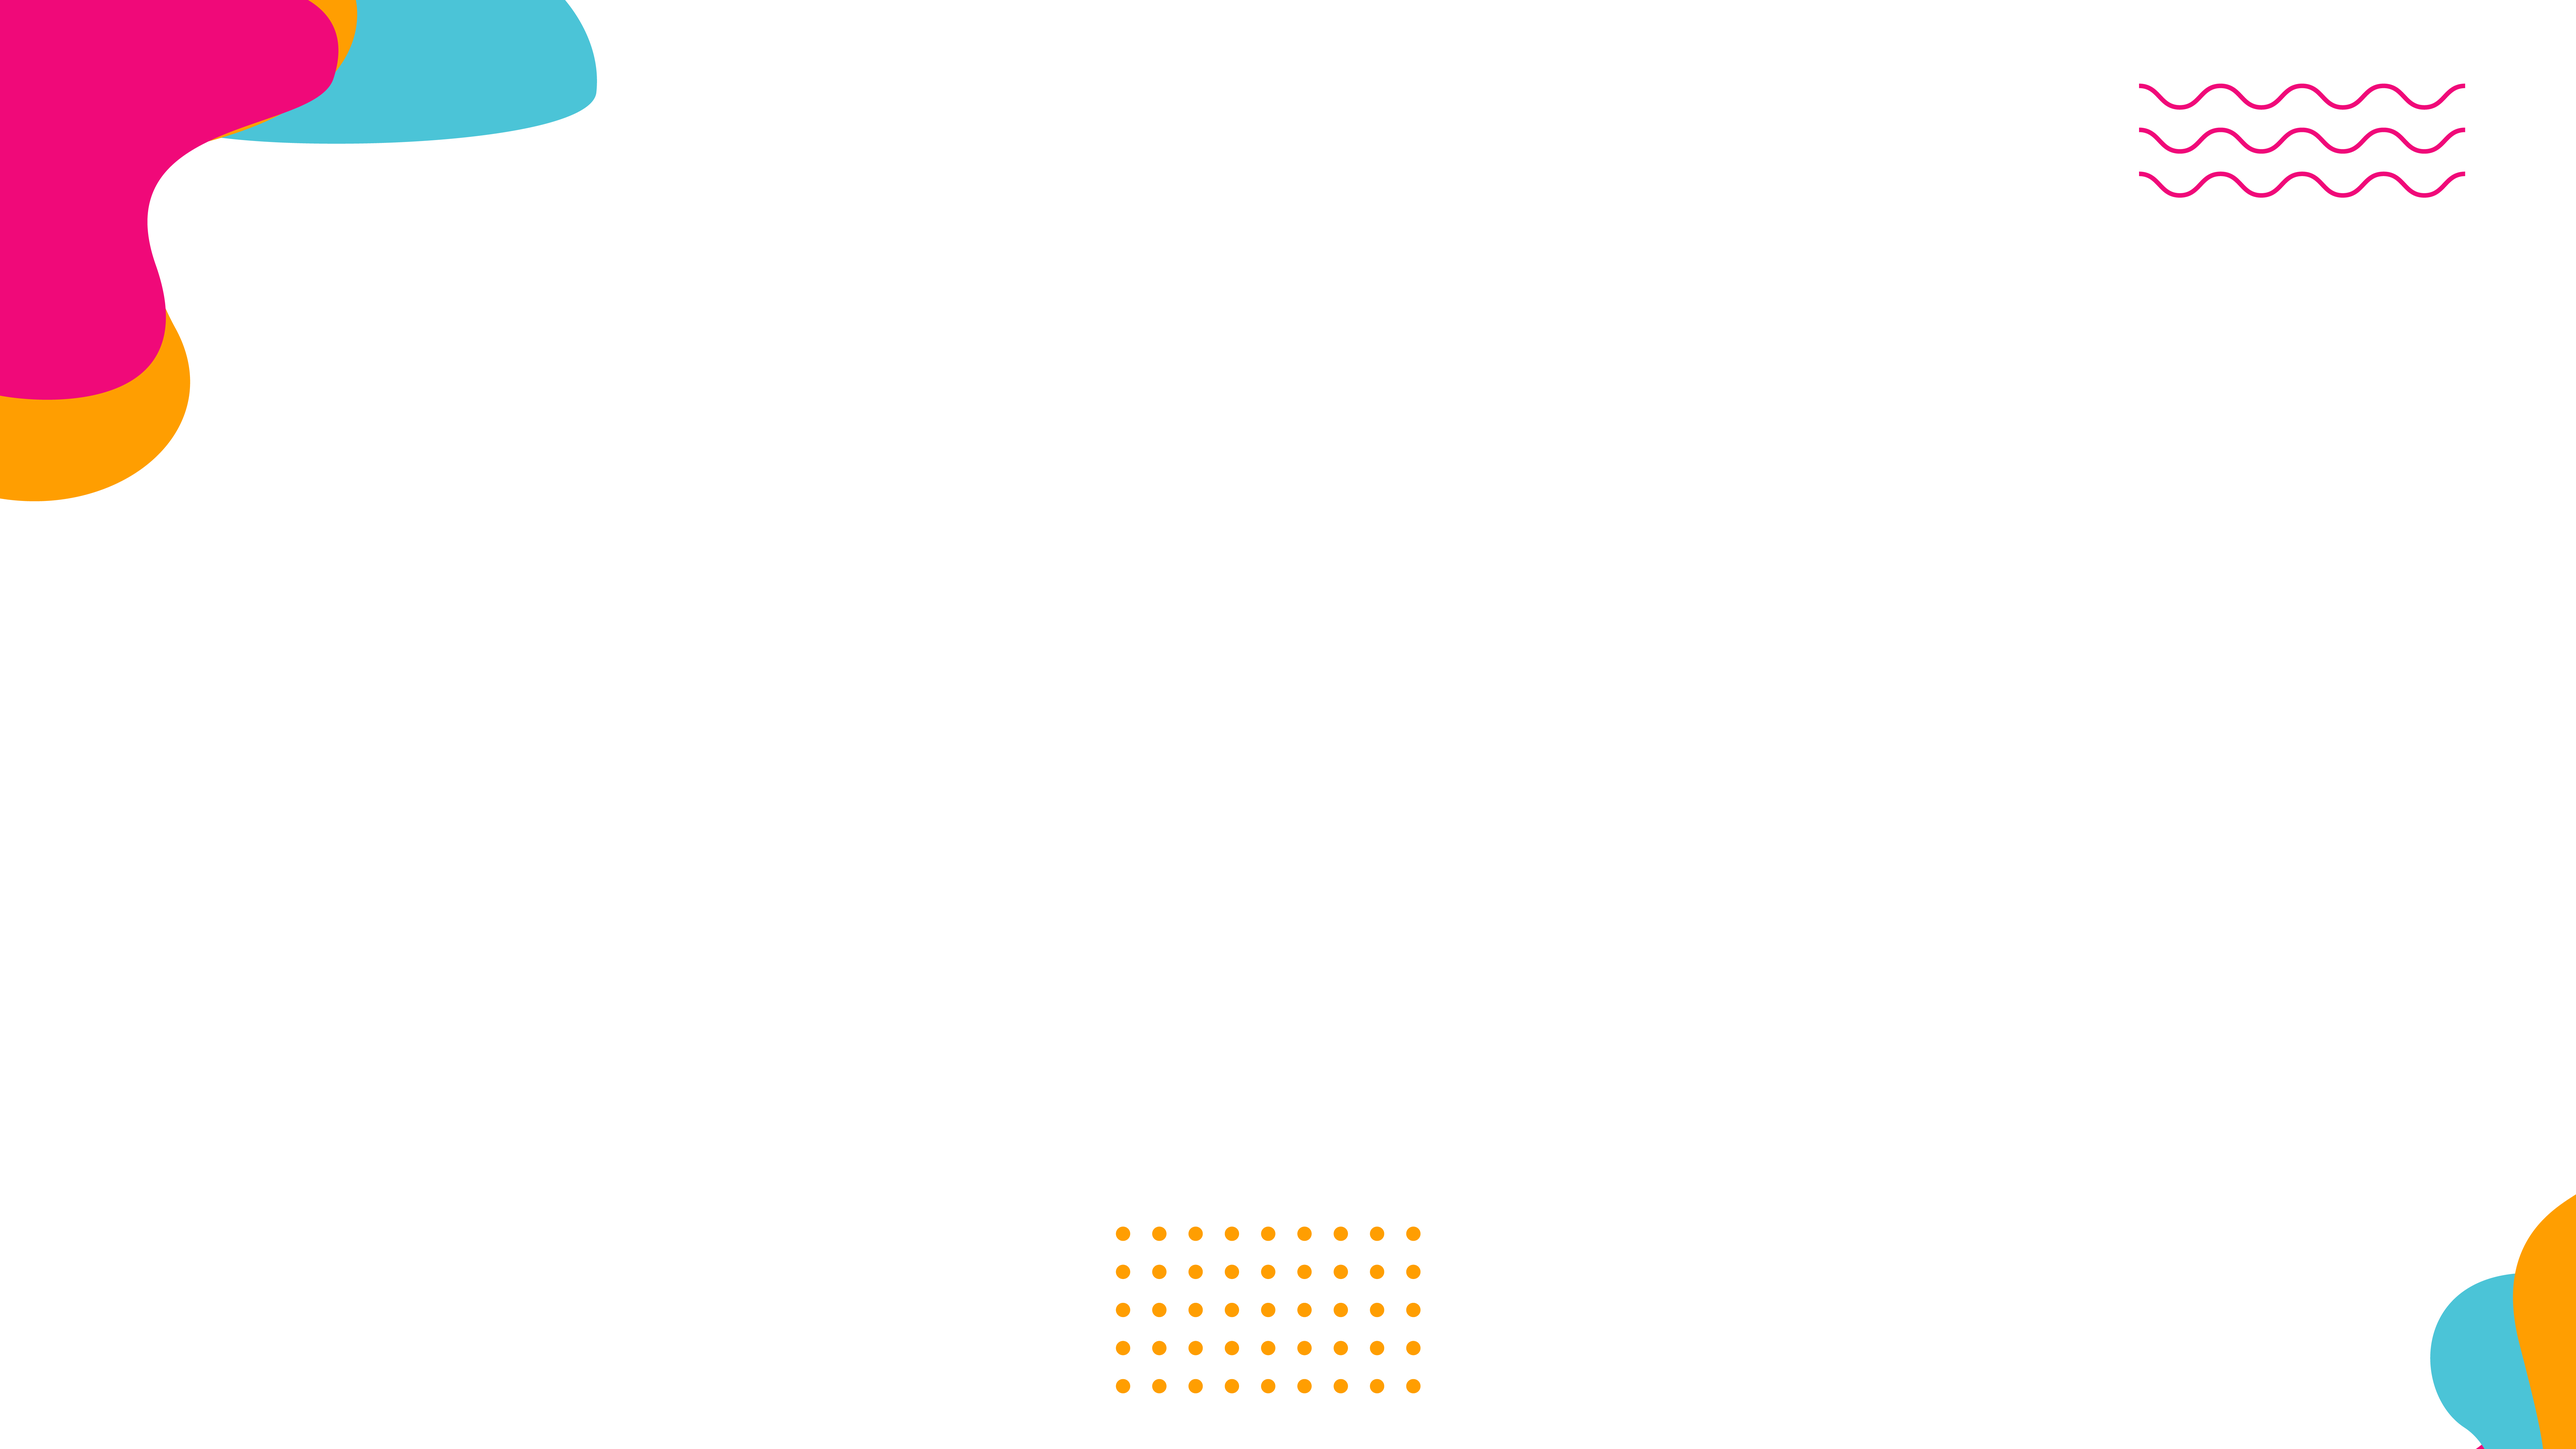
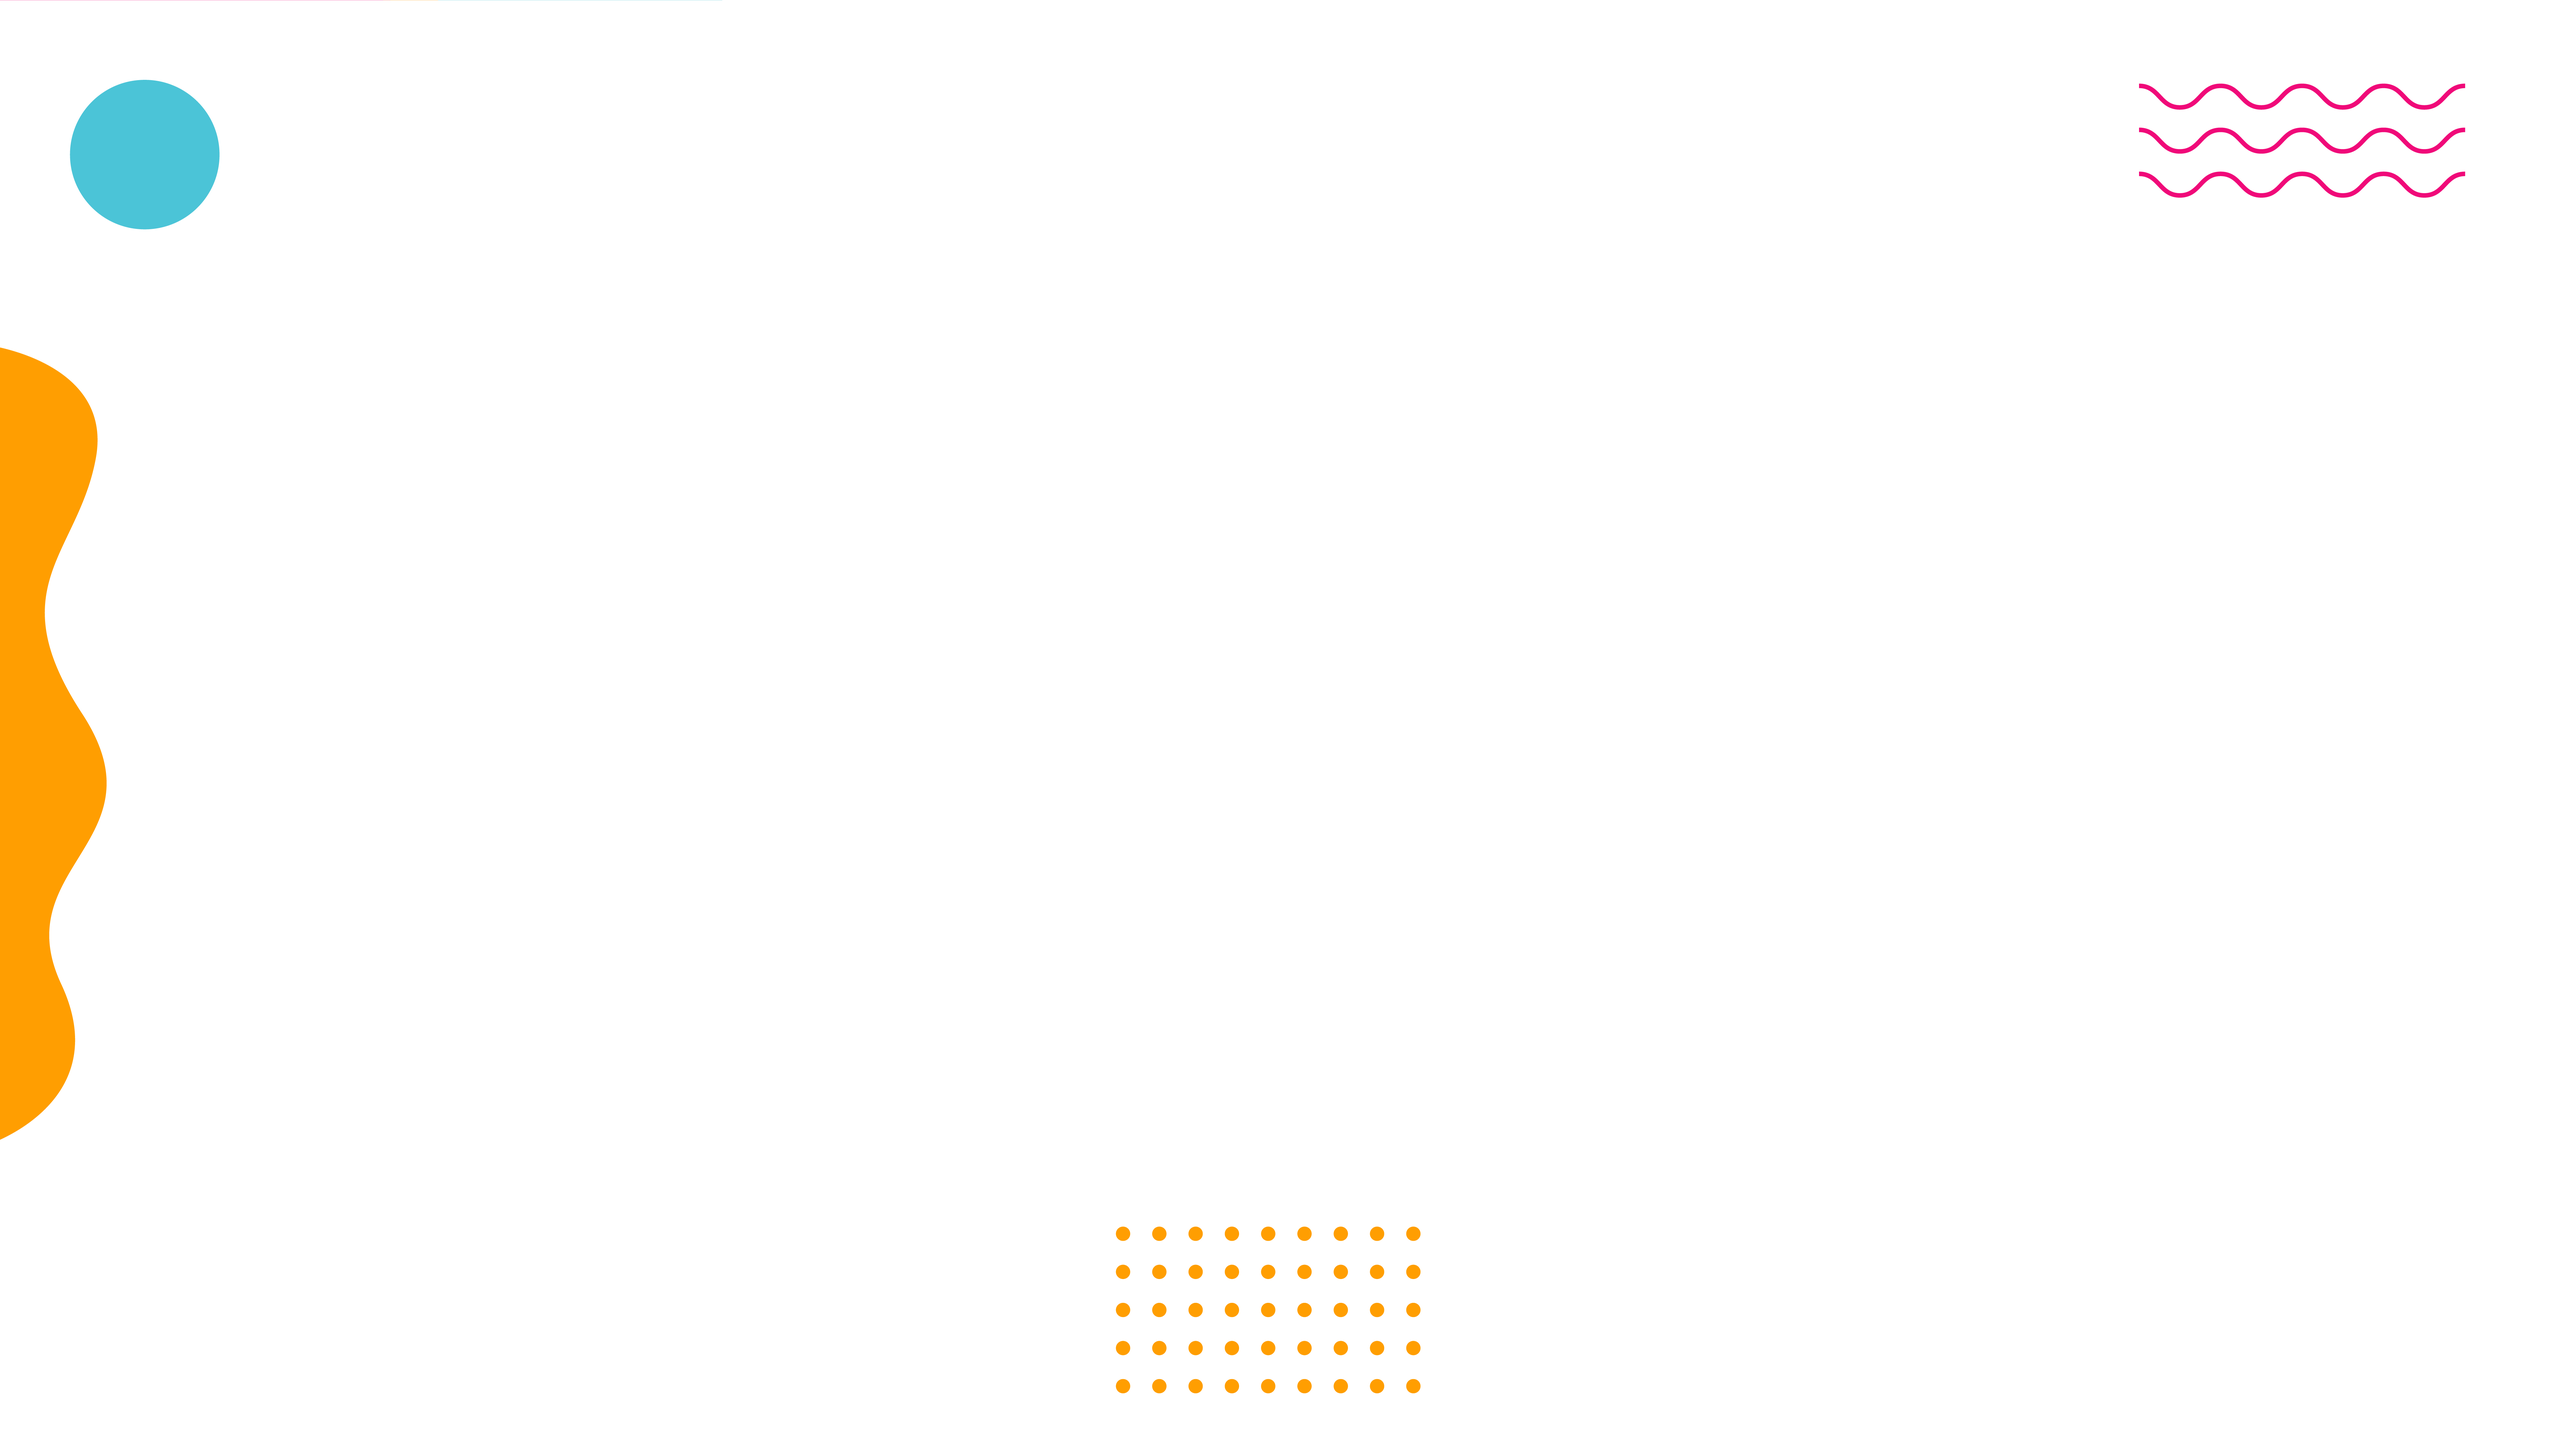
added map feature in footer section, changed slider's and bg's assets

Changed region(s): [[0.0, 0.0, 0.25, 0.3421], [0.0, 0.3421, 0.0625, 0.7776], [0.9375, 0.8087, 1.0, 1.0]]

diff --git a/Poshana-copy.html b/Poshana-copy.html
@@ -111,7 +111,7 @@
         <div class="swiper-wrapper ">
           <!--first slider-->
           <div class="swiper-slide"> 
-            <div class="slide-bg-img" data-bg-img="assets/images/hero/home-new-01.jpg">
+            <div class="slide-bg-img" data-bg-img="assets/images/hero/home-01.jpg">
             </div>
             <div class="container"> 
               <div class="hero-text-area  content-always-light   ">
@@ -121,7 +121,9 @@
                   </div>
                   <div class="col-12   ">
                     <div class="cta-links-area">
-                      <a class=" btn-outline cta-link  " href="#0">Professional Service</a><a class=" btn-outline cta-link  " href="#0">Customised Packaging</a><a class=" btn-outline cta-link  " href="#0">Food Grade Packaging</a></div>
+                      <a class=" btn-outline cta-link  " href="#0">Professional Service</a>
+                      <a class=" btn-outline cta-link  " href="#0">Customised Packaging</a>
+                      <a class=" btn-outline cta-link  " href="#0">Food Grade Packaging</a></div>
                   </div>
                 </div>
               </div>
@@ -346,6 +348,29 @@
                         </div>
                       </div>
                     </div>
+                    <!--Third Slide-->
+                    <div class="swiper-slide">
+                      <div class="info-items-list box">
+                        <div class="testmonial-card d-flex align-items-center justify-content-center">
+                          <div class="testimonial-content">
+                            <div class="customer-img "><img class="img-fluid " loading="lazy" src="assets/images/portfolio/porto-03.png" alt="First Slide "></div>
+                            <div class="post-summary">
+                              <div class="post-text"><a class="post-link" href="post-single.html"> 
+                                  <h2 class="post-title"> Sambal Roa - Christine Klappertaart </h2></a>
+                                <p class="post-excerpt">“Kami sangat puas dengan hasil produk dan layanan yang diberikan. Setelah kami mengganti packaging, produk kami lebih baik dan lebih banyak peminat karena tampilannya lebih bagus.”Sambal Roa - Christine Klapertart</p>
+                              </div>
+                              <div class="star-rating">
+                                <i class="fas fa-star"></i>
+                                <i class="fas fa-star"></i>
+                                <i class="fas fa-star"></i>
+                                <i class="fas fa-star"></i>
+                                <i class="fas fa-star"></i>
+                              </div>
+                            </div>
+                          </div>
+                        </div>
+                      </div>
+                    </div>
                   </div>
                   <!--navigation buttons-->
                 </div>
@@ -388,23 +413,8 @@
                 </li>
               </ul>
             </div>
-          </div>
-          <div class="col-6 col-lg-2 footer-col ">
-            <h2 class=" footer-col-title    ">Resources</h2>
-            <div class="footer-col-content-wrapper">
-              <ul class="footer-menu">
-                <li class="footer-menu-item"><i class="bi bi-arrow-right icon "></i><a class="footer-menu-link" href="#0">support</a>
-                </li>
-                <li class="footer-menu-item"><i class="bi bi-arrow-right icon "></i><a class="footer-menu-link" href="#0">dashboard</a>
-                </li>
-                <li class="footer-menu-item"><i class="bi bi-arrow-right icon "></i><a class="footer-menu-link" href="#0">drivers</a>
-                </li>
-                <li class="footer-menu-item"><i class="bi bi-arrow-right icon "></i><a class="footer-menu-link" href="#0">projects</a>
-                </li>
-              </ul>
-            </div>
           </div> -->
-          <div class="col-12     col-lg-8 footer-col d-flex justify-content-lg-end justify-content-start">
+          <div class="col-12     col-lg-5 footer-col d-flex justify-content-lg-end justify-content-start">
             <div>
               <h2 class=" footer-col-title    ">contact information</h2>
               <div class="footer-col-content-wrapper">       
@@ -412,10 +422,11 @@
                   <i class="bi bi-envelope icon"></i><a class="text-lowercase  info" href="contact@poshana.id">contact@poshana.id</a>
                 </div>
                 <div class="contact-info-card">
-                  <i class="bi bi-geo-alt icon"></i><span class="text-lowercase  info">Jl. Ir. H. Juanda No. 8<br>
-                  RT/RW 014/004, Kebon<br>
-                  Kelapa Gambir, Jakarta<br>
-                  Pusat, 10120</span>
+                  <i class="bi bi-geo-alt icon"></i><a class="text  info" href="https://maps.app.goo.gl/E5FMxmoCw8c7fSLj6" target="_blank">Jl. Ir. H. Juanda No. 9<br>
+                  RT.2/RW.4, Kb. Klp., <br>
+                  Kecamatan Gambir, Kota Jakarta Pusat <br>
+                  Daerah Khusus Ibukota Jakarta 10120
+                  </a>
                 </div>
                 <div class="contact-info-card">
                   <i class="bi bi-phone icon"></i><a class="info" href="tel:+6282221119980">+62 82221119980  </a></div>
@@ -423,15 +434,33 @@
                   <div class="social-icons">
                     <div class="sc-wrapper dir-row sc-size-32">
                       <ul class="sc-list">
-                        <li class="sc-item " title="instagram"><a class="sc-link" href="https://www.instagram.com/poshana.id/?hl=en" target="_blank" title="social media icon"><i class="fab fa-instagram sc-icon"></i></a></li>
-                        <!-- <li class="sc-item " title="Facebook"><a class="sc-link" href="#0" title="social media icon"><i class="fab fa-facebook-f sc-icon"></i></a></li>
-                        <li class="sc-item " title="youtube"><a class="sc-link" href="#0" title="social media icon"><i class="fab fa-youtube sc-icon"></i></a></li>
-                        <li class="sc-item " title="twitter"><a class="sc-link" href="#0" title="social media icon"><i class="fab fa-twitter sc-icon"></i></a></li> -->
+                        <li class="sc-item " title="instagram">
+                          <a class="sc-link" href="https://www.instagram.com/poshana.id/?hl=en" target="_blank" title="social media icon">
+                            <i class="fab fa-instagram"></i>
+                          </a>
+                        </li>
+                        <li class="sc-item " title="Whatsapp">
+                          <a class="sc-link" href="https://wa.me/message/WSA2L35C524YL1" target="_blank" title="social media icon">
+                            <i class="fab fa-whatsapp"></i>
+                          </a>
+                        </li>
+                        <li class="sc-item " title="Tiktok">
+                          <a class="sc-link" href="https://www.tiktok.com/@poshana.id?_t=8mYYTTNt2qP&_r=1" target="_blank" title="social media icon">
+                            <i class="bi bi-tiktok"></i>
+                          </a>
+                        </li>
                       </ul>
                     </div>
                   </div>
                 </div>
               </div>
+            </div>
+          </div>
+          <div class="col-6 col-lg-3 footer-col ">
+            <div class="map-container">
+              <iframe
+                src="https://www.google.com/maps/embed?pb=!1m18!1m12!1m3!1d1980.526741889857!2d106.83434851606723!3d-6.179443662189583!2m3!1f0!2f0!3f0!3m2!1i1024!2i768!4f13.1!3m3!1m2!1s0x2e6a1d15b51595f1%3A0x4a1e8b3f6f2e1c7a!2sJl.%20Ir.%20H.%20Juanda%20No.9%2C%20RT.2%2FRW.4%2C%20Kb.%20Klp.%2C%20Kecamatan%20Gambir%2C%20Kota%20Jakarta%20Pusat%2C%20Daerah%20Khusus%20Ibukota%20Jakarta%2010120!5e0!3m2!1sen!2sid!4v1597894512058!5m2!1sen!2sid"
+                width="100%" height="300" frameborder="0" style="border:0;" allowfullscreen="" aria-hidden="false" tabindex="0"></iframe>
             </div>
           </div>
         </div>

diff --git a/css/main-LTR.css b/css/main-LTR.css
@@ -2094,18 +2094,21 @@ body.rounded-btns .read-more {
   display: inline-flex;
   flex-direction: row;
   align-items: center;
+  flex-wrap: wrap;
 }
 .page-hero .cta-links-area .cta-link {
   margin-bottom: 0;
   margin-right: 1.5rem;
   font-size: 1.15rem;
-  min-width: 180px;
+  max-width: 200px;
+  margin-bottom: 1rem; /* Add bottom margin for spacing */
 }
 @media (max-width: 991px) {
   .page-hero .cta-links-area .cta-link {
+    flex-direction: column; /* Change direction to column on small screens */
+    align-items: stretch; /* Ensure buttons take full width */
     font-size: 1rem;
     padding: 0.75rem 1.5rem;
-    min-width: auto;
   }
 }
 .page-hero .cta-links-area .cta-link:last-child {
@@ -5154,3 +5157,15 @@ ul.about-text {
   margin-bottom: 0; /* Ensures no extra margin at the bottom of the list */
 }
 
+.map-container {
+  width: 300px;
+  height: 200px;
+  margin-top: 1rem;
+}
+
+@media (max-width: 768px) {
+  .map-container {
+    height: 100px;
+    width: 90vw;
+  }
+}

diff --git a/home-3.html b/home-3.html
@@ -129,7 +129,7 @@
         <div class="swiper-wrapper ">
           <!--first slider-->
           <div class="swiper-slide"> 
-            <div class="slide-bg-img" data-bg-img="assets/images/hero/hero-bg-1.jpg">
+            <div class="slide-bg-img" data-bg-img="assets/images/hero/home-new-01.jpg">
               <div class="overlay-color " data-bg-opacity=".35"></div>
             </div>
             <div class="container"> 

diff --git a/Poshana.html b/Poshana.html
@@ -45,7 +45,7 @@
   </head>
   <body class=" dark-theme ">
     <!--Start Page Header-->
-    <<header class="page-header content-always-light header-basic" id="page-header">
+    <header class="page-header content-always-light header-basic" id="page-header">
       <div class="container">
         <nav class="menu-navbar">
           <div class="header-logo">
